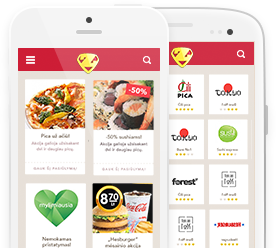
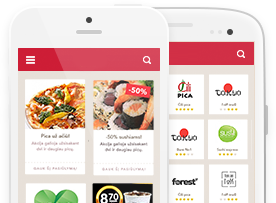
WOW such colors. much changes. such contrast

diff --git a/src/Food/AppBundle/Resources/public/styles/style.css b/src/Food/AppBundle/Resources/public/styles/style.css
@@ -491,12 +491,12 @@ input.button {}
 
 
 /*Bottom blocks*/
-.bottom-blocks {padding-top: 94px;}
-.app-block {width: 580px; float: left; position: relative; height: 240px;}
-.app-block > img {position: absolute; left: -9px; bottom: 0px;}
-.app-block-inner {width: 304px; float: right;}
+.bottom-blocks {padding-top: 56px; margin-bottom: -98px;}
+.app-block {position: relative; height: 193px;}
+.app-block > img {position: absolute; left: 91px; bottom: 0px;}
+.app-block-inner {width: 500px; float: right; padding-right: 84px;}
 .app-block-inner h3 {margin: 0; font-size: 30px; line-height: 30px; letter-spacing: -1.6px; color: #513d28;}
-.app-block-inner p {color: #543f42; line-height: 17px; font-size: 12px; margin-top: 6px; margin-bottom: 17px;}
+.app-block-inner p {color: #543f42; line-height: 17px; font-size: 12px; margin-top: 14px; margin-bottom: 26px;}
 .app-block a {display: inline-block; margin-right: 10px;}
 
 .newsletter-block {float: right; width: 342px; background: #fff; padding: 19px; border-radius: 5px;}
